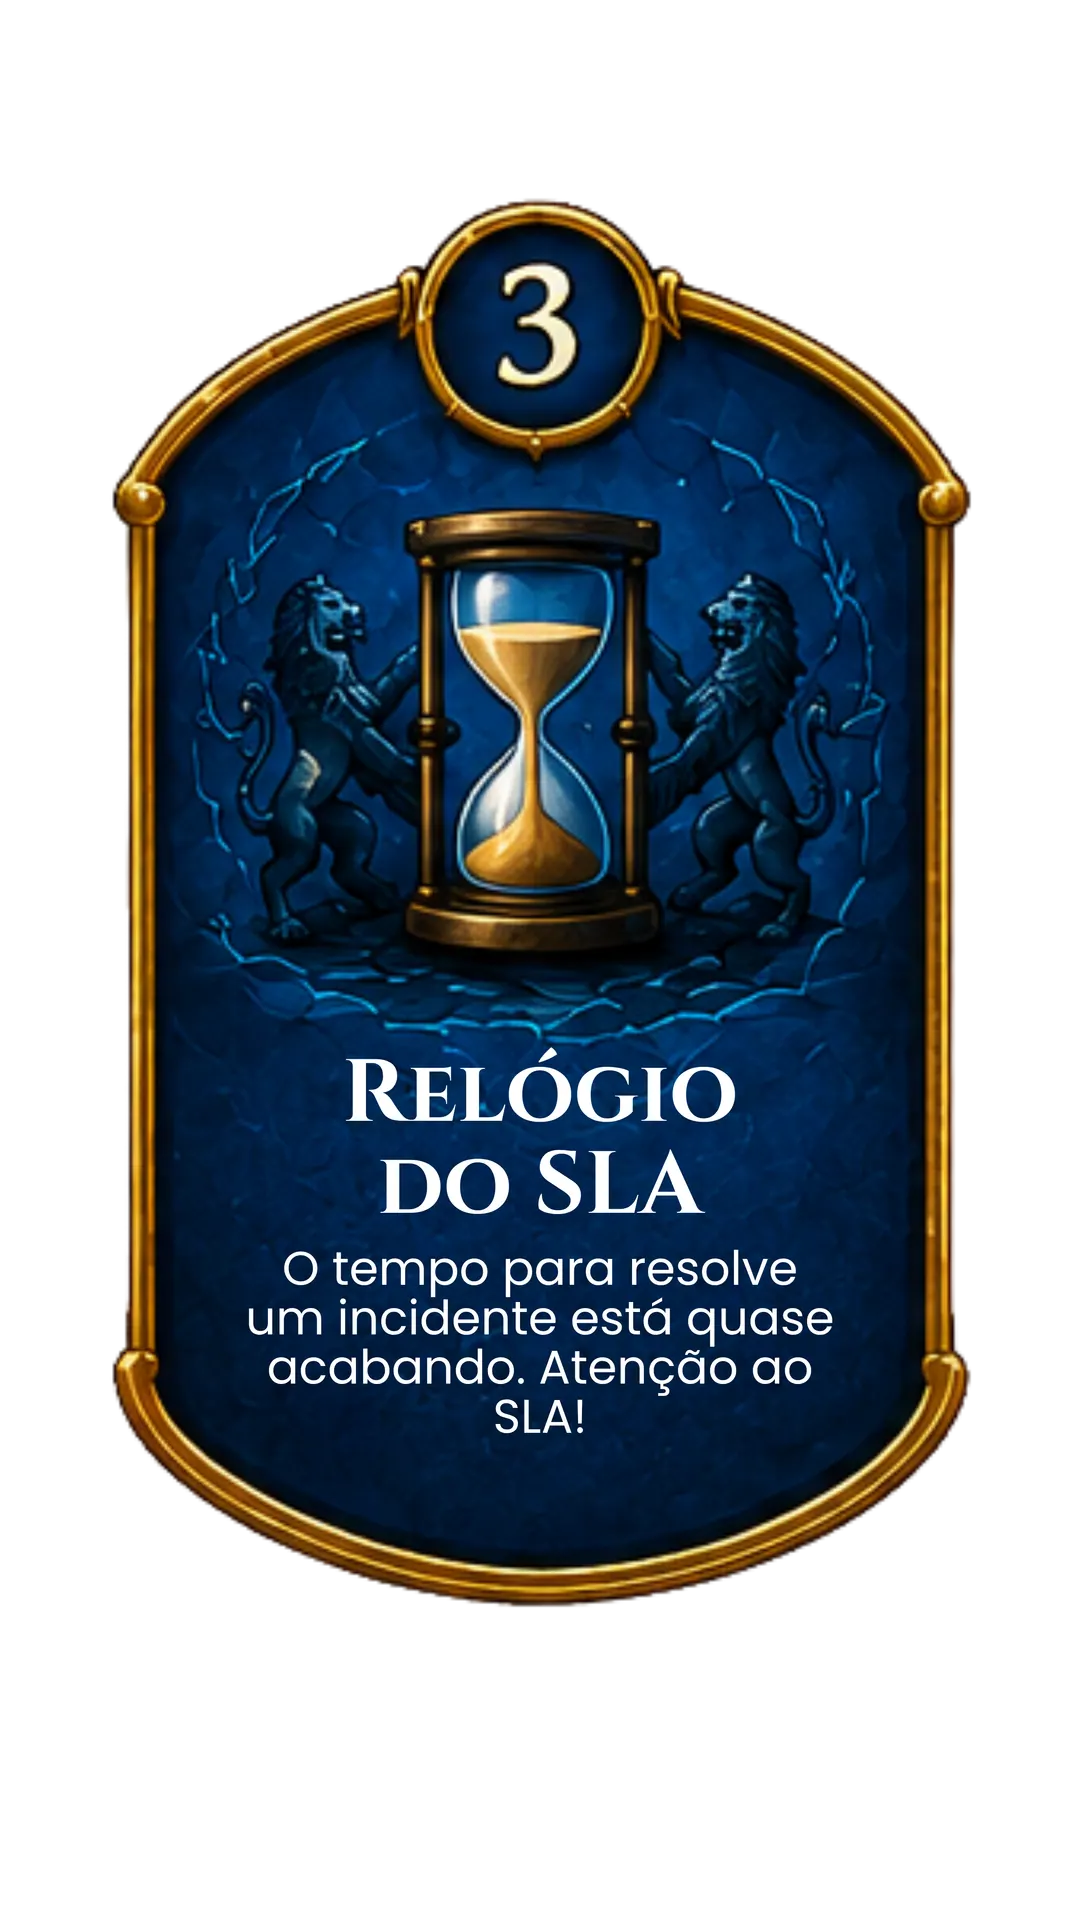
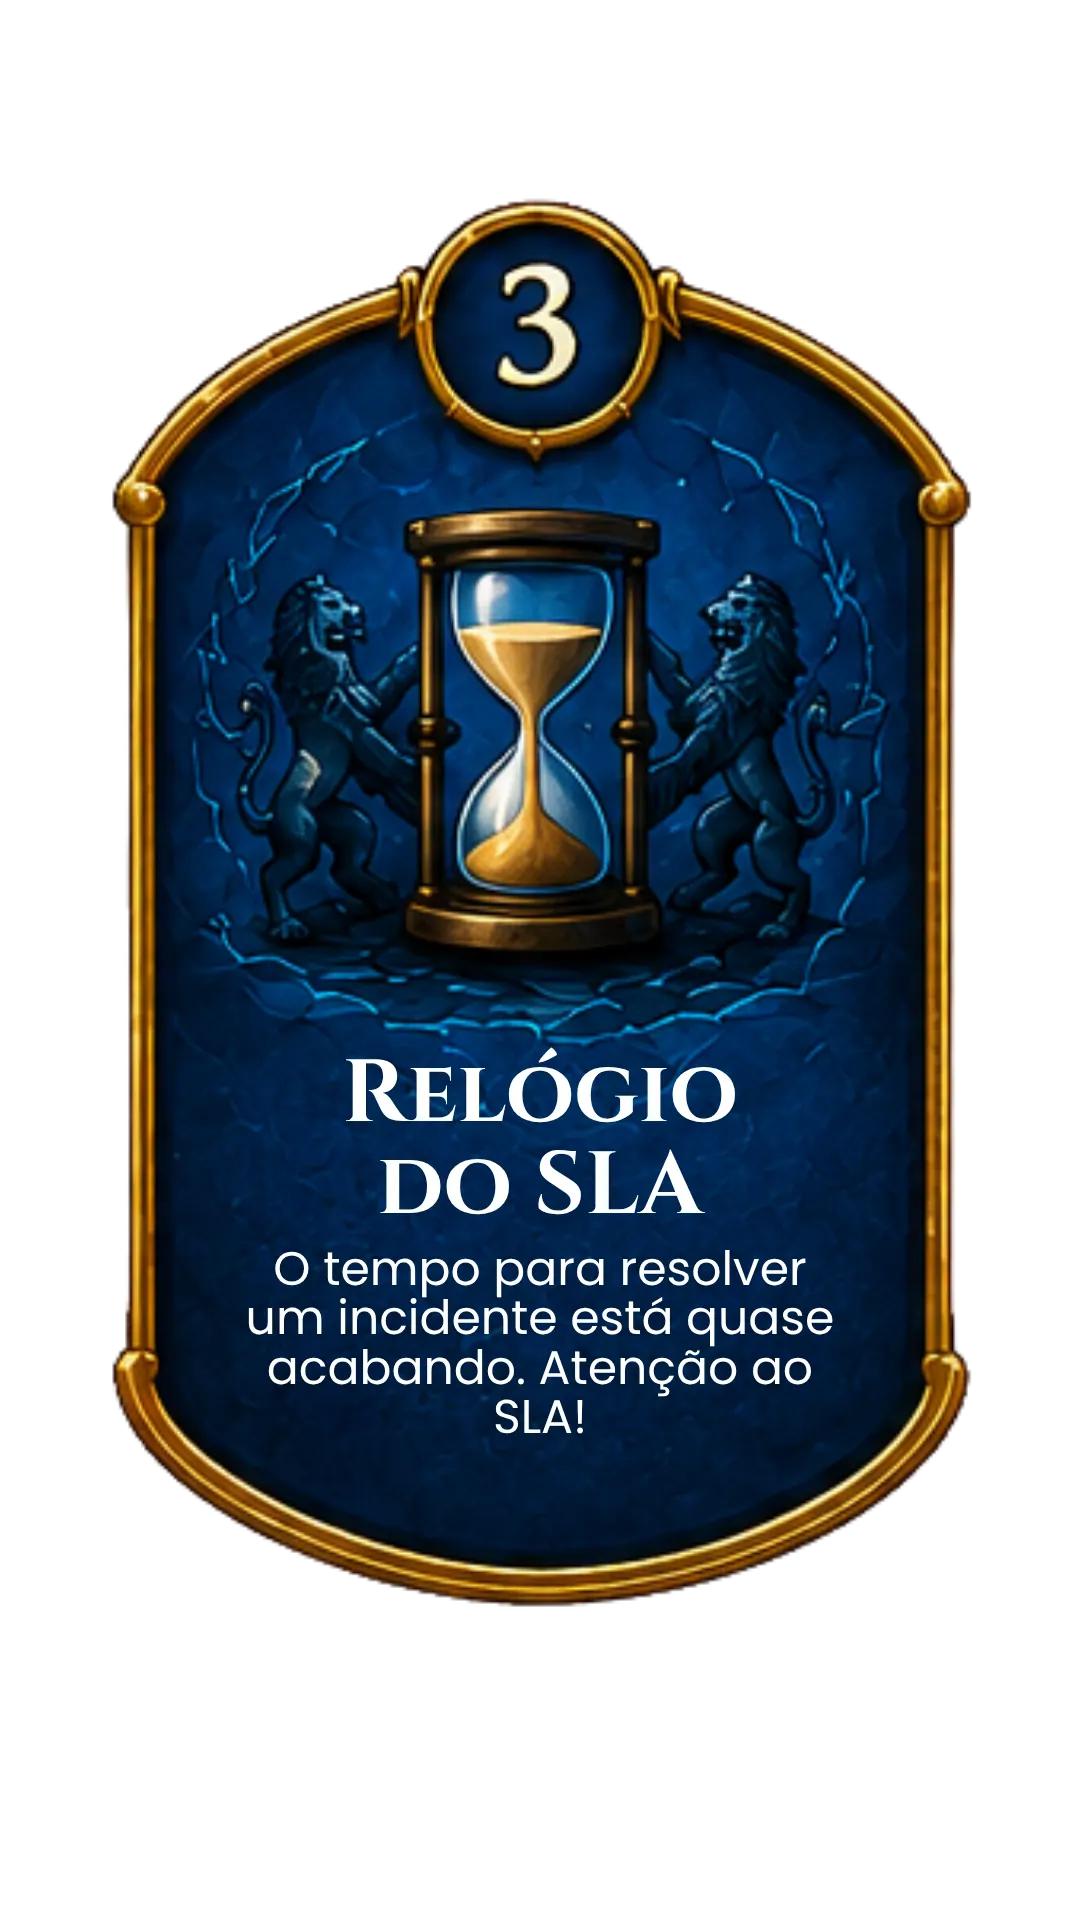
update

Changed region(s): [[0.2444, 0.6562, 0.7639, 0.7188]]

diff --git a/client/src/index.css b/client/src/index.css
@@ -747,39 +747,24 @@ button {
   top: 50%;
   left: 50%;
   z-index: 1;
-  display: grid;
   width: 13rem;
   height: 13rem;
-  place-content: center;
-  border: 2px solid rgba(250, 204, 21, 0.68);
   border-radius: 999px;
-  background: radial-gradient(circle, rgba(120, 53, 15, 0.9), rgba(7, 18, 31, 0.92));
-  color: rgb(254 240 138);
-  text-align: center;
-  text-shadow: 0 2px 6px black;
-  box-shadow: 0 0 0 0.5rem rgba(120, 53, 15, 0.25), 0 0 3rem rgba(250, 204, 21, 0.25);
   transform: translate(-50%, -50%);
 }
 
-.board-center p,
-.board-center span {
-  font-size: 0.65rem;
-  font-weight: 800;
-  letter-spacing: 0.24em;
-  text-transform: uppercase;
-}
-
-.board-center b {
-  margin: 0.25rem 0;
-  font-size: 1.7rem;
-  text-transform: uppercase;
+.board-center img {
+  width: 100%;
+  height: 100%;
+  object-fit: contain;
+  filter: drop-shadow(0 0 1.5rem rgba(250, 204, 21, 0.3));
 }
 
 .board-house {
   position: absolute;
   z-index: 2;
-  width: clamp(9rem, 10vw, 12rem);
-  height: clamp(11rem, 12vw, 15rem);
+  width: clamp(calc(9rem - 35px), calc(10vw - 35px), calc(12rem - 35px));
+  height: clamp(calc(11rem - 35px), calc(12vw - 35px), calc(15rem - 35px));
   border: 0;
   background: transparent;
   padding: 0;
@@ -1043,7 +1028,7 @@ button {
     top: auto;
     left: auto;
     width: auto;
-    height: 16.5rem;
+    height: calc(16.5rem - 35px);
     transform: none;
   }
   .board-house.is-active { transform: scale(1.035); }

diff --git a/client/src/App.tsx b/client/src/App.tsx
@@ -137,7 +137,7 @@ function Board({ game, moving = false, onRevealQuestion }: { game: GameState; mo
     const y = 50 + Math.sin(radians) * 34;
     return { x, y };
   });
-  return <div className="board-shell"><div className="board-route"><svg className="board-track" viewBox="0 0 100 100" aria-hidden="true"><circle className="board-track-base" cx="50" cy="50" r="34" /></svg><div className="board-center"><p>Operação</p><b>Rockstar</b><span>Protocolo Seguro</span></div>{boardHouses.map((house, index) => {
+  return <div className="board-shell"><div className="board-route"><svg className="board-track" viewBox="0 0 100 100" aria-hidden="true"><circle className="board-track-base" cx="50" cy="50" r="34" /></svg><div className="board-center"><img src="/assets/houses/11.webp" alt="Rockstar" decoding="async" /></div>{boardHouses.map((house, index) => {
     const position = index + 1, active = position === activePosition, canReveal = active && game.roundStage === "waiting" && Boolean(onRevealQuestion);
     return <button type="button" key={house} style={{ left: `${orbit[index].x}%`, top: `${orbit[index].y}%` }} className={`board-house ${active ? "is-active" : ""} ${canReveal ? "is-clickable" : ""} ${moving && active ? "is-departing" : ""}`} disabled={!canReveal} onClick={onRevealQuestion} aria-label={canReveal ? `Abrir pergunta da casa ${house}` : house}>
       <img src={houseImagePath(position)} alt="" decoding="async" />